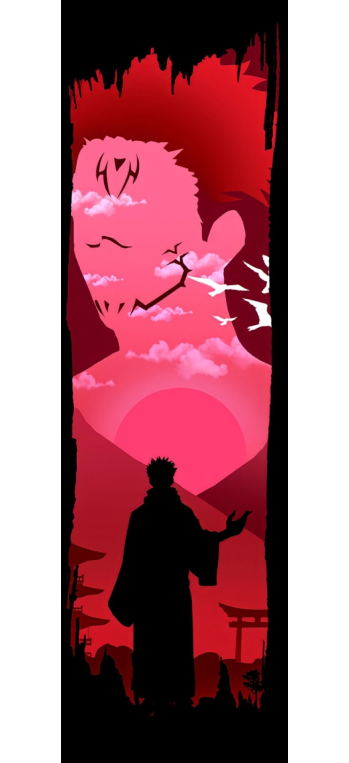
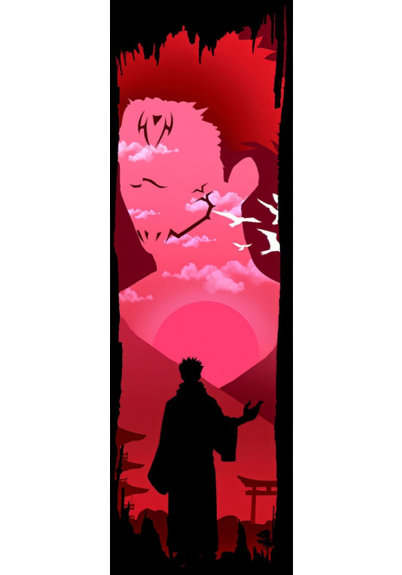
v10

diff --git a/index.css b/index.css
@@ -16,7 +16,7 @@
     justify-content: space-between;
     align-items: center;
     background-color: black;
-    background-image: url(./img/teste.png);
+    background-image: url(./img/backgroundImage.png);
     background-repeat: no-repeat;
     background-position: center;
     background-size: contain;
